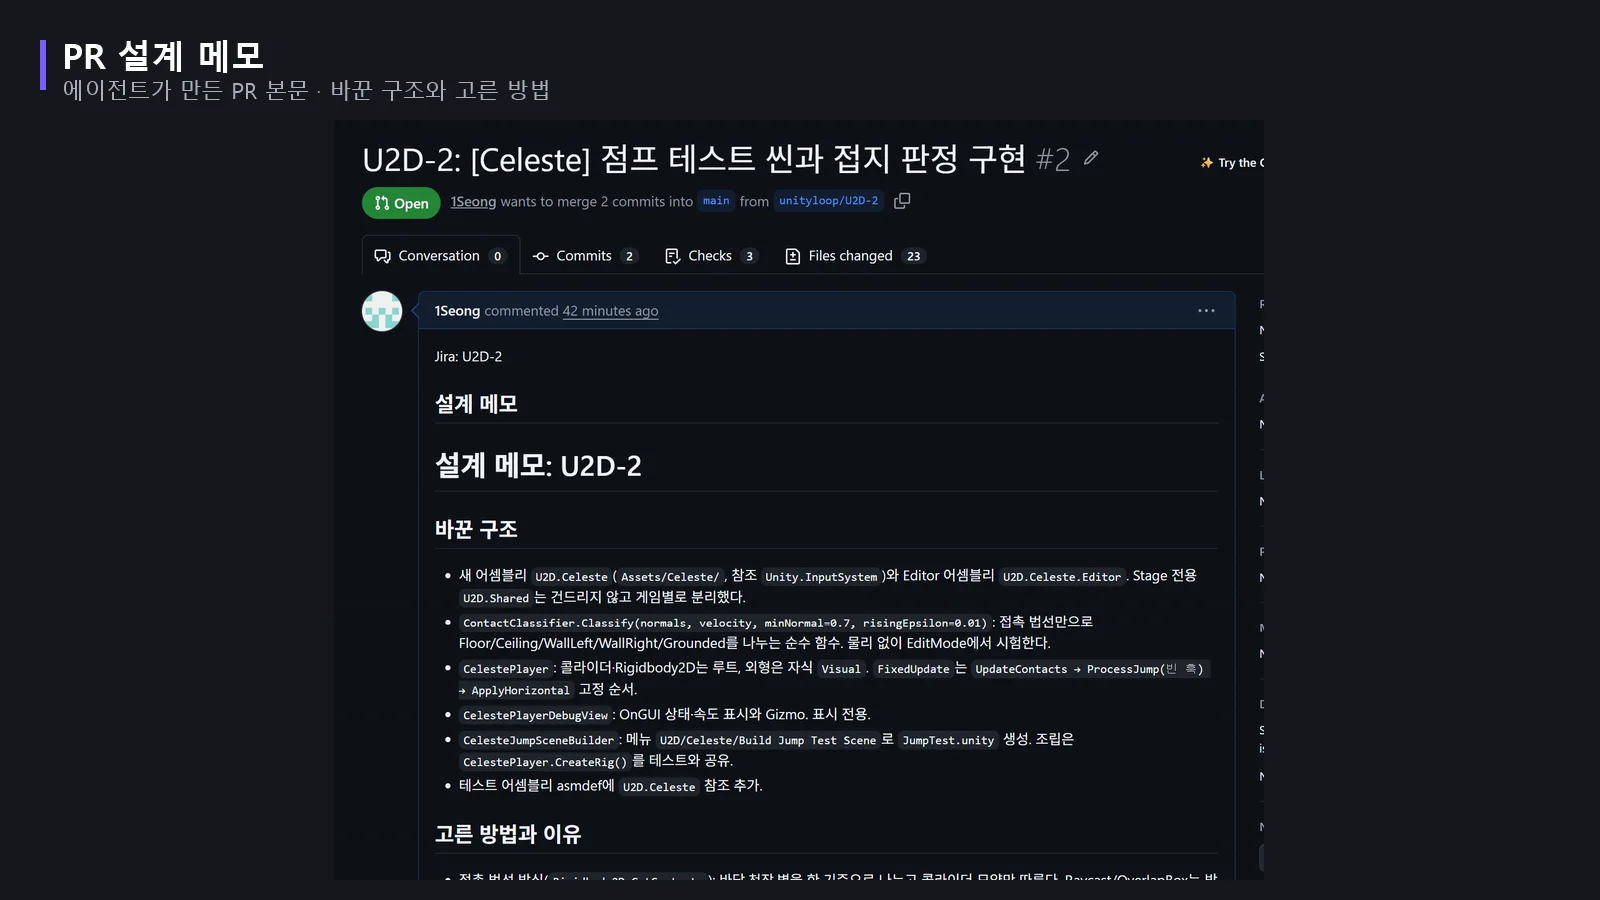
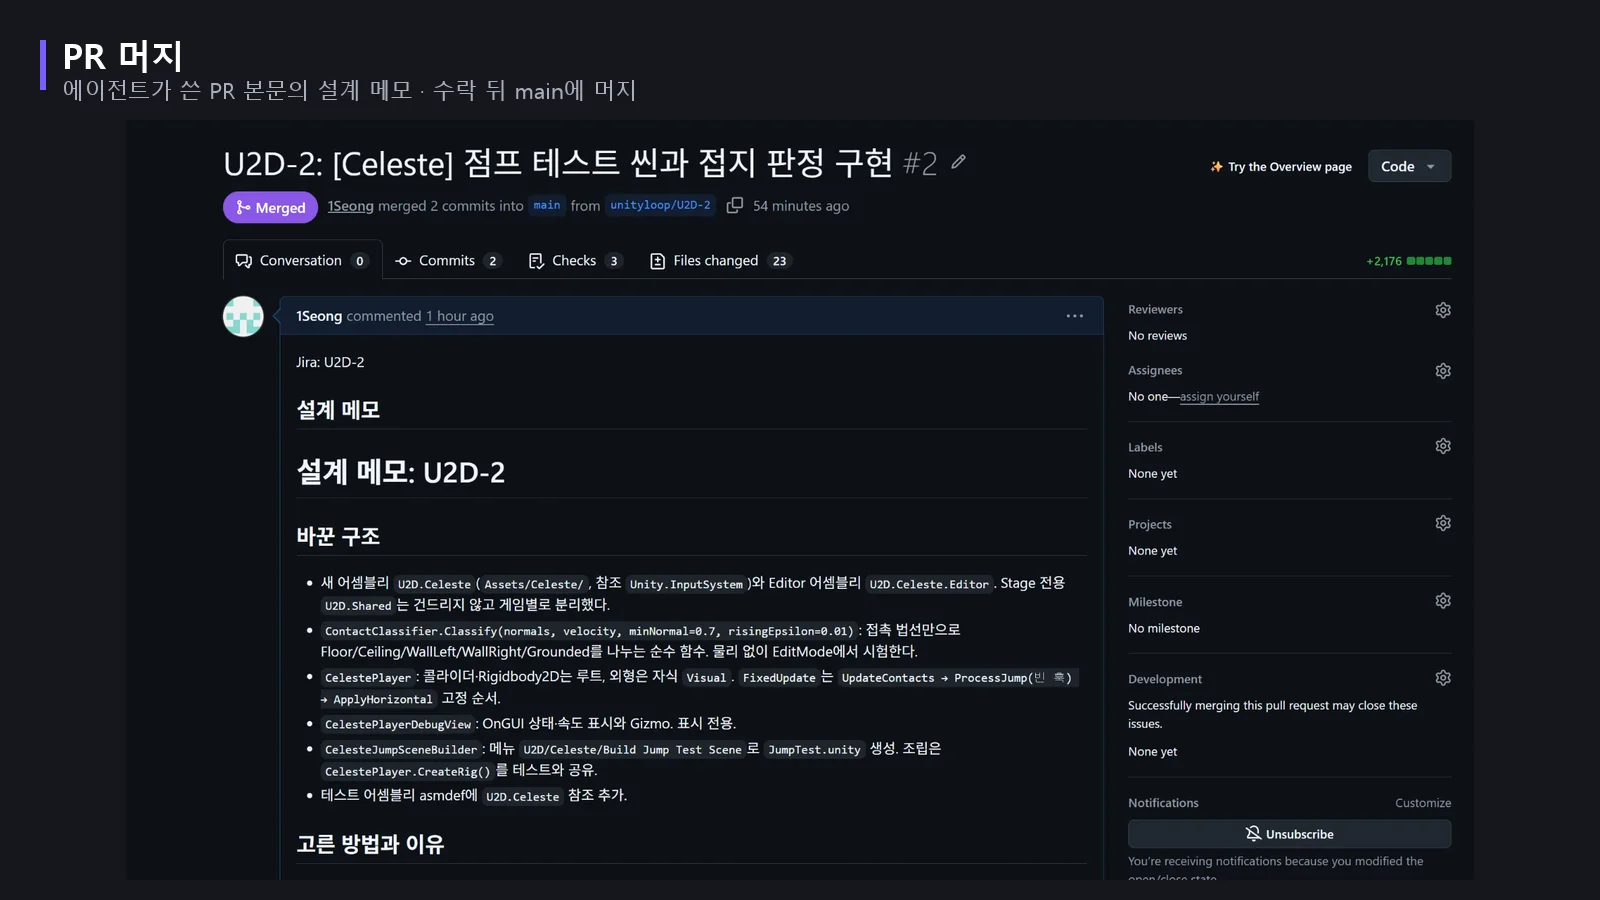
Show the merged PR and passing CI run in the UnityLoop gallery
Replace the open-PR and in-progress CI screenshots and order the gallery
as reject, rework CI pass, merged PR, then Jira done.

diff --git a/portfolio-data.js b/portfolio-data.js
@@ -121,9 +121,9 @@ const PROJECTS = {
     ],
     media:[
       { type:"video", src:"assets/projects/uloop/demo.mp4", thumbnail:"assets/projects/uloop/demo-thumb.webp", label:"실행 흐름" },
-      { type:"image", src:"assets/projects/uloop/pr.webp", label:"PR 설계 메모", alt:"에이전트가 만든 U2D-2 PR과 본문의 설계 메모", fit:"contain" },
-      { type:"image", src:"assets/projects/uloop/ci-run.webp", label:"CI 실행", alt:"GitHub Actions에서 Unity EditMode 테스트가 실행 중인 화면", fit:"contain" },
       { type:"image", src:"assets/projects/uloop/reject.webp", label:"1차 수락 거절", alt:"1차 수락 게이트에서 사유와 함께 거절하는 /issue --reject 명령", fit:"contain" },
+      { type:"image", src:"assets/projects/uloop/ci-run.webp", label:"재구현 뒤 CI 통과", alt:"재구현 뒤 GitHub Actions에서 Unity EditMode 테스트가 통과한 실행 화면", fit:"contain" },
+      { type:"image", src:"assets/projects/uloop/pr.webp", label:"PR 머지", alt:"에이전트가 쓴 설계 메모가 담긴 U2D-2 PR이 머지된 화면", fit:"contain" },
       { type:"image", src:"assets/projects/uloop/jira-issue.webp", label:"재구현 뒤 Jira 완료", alt:"재구현 뒤 수락되어 완료 상태가 된 Jira U2D-2 이슈", fit:"contain" },
     ],
     summary:"사람이 고른 Jira 이슈 하나를 계획·구현·검증·PR·CI·수락·머지까지 잇는 에이전트 개발 루프. 학습용 Unity 프로젝트 이슈를 수락 거절·재구현을 거쳐 PR 머지와 Jira 완료까지 처리.",
